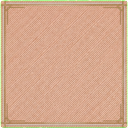
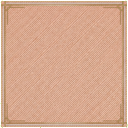
Apply four cross-screen review fixes
MOBILE_UI_DESIGN v0.80, mock v2.20. Cells gain small unstroked white
position letters A-I inset past the stitched border, matching the log
position column. The concentration sparkle badge is offset so its
visible left edge aligns with the power plate. A label_power_normal id
(matte plate for the uncharged state, user-generated later) is
registered in the docs and processing script, which now skips parts
whose source is missing. The three non-regen grid frames are
reprocessed with a border-connected green-haze wipe (greenness > 0.25
chained from the image edge); the regen frame is excluded because its
green border is legitimate. Zero green pixels remain in all three.

Changed region(s): [[0.0, 0.0, 1.0, 1.0]]

diff --git a/public/mock/index.html b/public/mock/index.html
@@ -115,7 +115,8 @@
   /* D5: 精神統一固定中は残りターン数と同数の「きらめき」バッジ(白発光の円形オーブ画像)を付ける。
      素材は発光の裾(グロー)を含むため画像端=見た目の境界ではない。複数並ぶ場合は左端を基準に、
      グロー同士の重なりを許容して中心間距離12px(15px+間隔1pxの25%詰め)で並べる */
-  .sparkles { position: absolute; top: -8px; left: 4px; display: flex; }
+  /* きらめきの可視左端をプレートの左端に揃える(素材の透過マージン1.5px分を補正。2026-07-12) */
+  .sparkles { position: absolute; top: -8px; left: -1.5px; display: flex; }
   .spark + .spark { margin-left: -3px; }
   /* D5: サイクル全体表示では布特性バッジと3個表示時に重なるため非表示(コンパクト表示のみで見せる) */
   .viewCycle .sparkles { display: none; }
@@ -193,6 +194,10 @@
   .cellNum.t2 { font-size: 28px; font-weight: bold; }
   .cellNum .t2s { -webkit-text-stroke-width: 2.2px; }
   .cellNum { filter: drop-shadow(0 2px 2px rgba(0,0,0,.5)); }
+  /* マスの位置アルファベット(A〜I 左上から行優先。ログの位置表記と対応): 縁なし白の小文字。
+     マス画像の茶ステッチ帯(端から約4px)と重ならないよう内側にオフセット */
+  .cellPos { position: absolute; top: 4px; left: 6px; font-size: 10px; font-weight: bold;
+    line-height: 1; color: #fff; pointer-events: none; }
   /* しつけがけ・発光マス: 下地画像そのものをマスごと差し替え(重ね枠ではない) */
   .cellShitsuke { background-image: url('./assets/cell_shitsuke.png'); }
   .cellGlow { background-image: url('./assets/cell_glow.png'); }
@@ -454,15 +459,15 @@
     <!-- 布グリッド(再生布) -->
     <section class="gridArea">
       <div class="grid">
-        <button class="cell c-normal" type="button"><span class="cellNum t2"><span class="t2s">46</span><span class="t2f">46</span></span></button>
-        <button class="cell c-yellow" type="button"><span class="cellNum t2"><span class="t2s">3</span><span class="t2f">3</span></span></button>
-        <button class="cell c-done" type="button"><span class="cellNum t2"><span class="t2s">0</span><span class="t2f">0</span></span></button>
-        <button class="cell c-normal cellGlow" type="button"><span class="cellNum t2"><span class="t2s">27</span><span class="t2f">27</span></span></button>
-        <button class="cell c-normal cellShitsuke cellGlow" type="button"><span class="cellNum t2"><span class="t2s">88</span><span class="t2f">88</span></span><span class="shitsukeMark t2"><span class="t2s">×２</span><span class="t2f">×２</span></span></button>
-        <button class="cell c-normal cellShitsuke" type="button"><span class="cellNum t2"><span class="t2s">12</span><span class="t2f">12</span></span><span class="shitsukeMark t2"><span class="t2s">×２</span><span class="t2f">×２</span></span></button>
-        <button class="cell c-done" type="button"><span class="cellNum t2"><span class="t2s">0</span><span class="t2f">0</span></span></button>
-        <button class="cell c-over" type="button"><span class="cellNum t2"><span class="t2s">-6</span><span class="t2f">-6</span></span></button>
-        <button class="cell c-normal" type="button"><span class="cellNum t2"><span class="t2s">62</span><span class="t2f">62</span></span></button>
+        <button class="cell c-normal" type="button"><span class="cellPos">A</span><span class="cellNum t2"><span class="t2s">46</span><span class="t2f">46</span></span></button>
+        <button class="cell c-yellow" type="button"><span class="cellPos">B</span><span class="cellNum t2"><span class="t2s">3</span><span class="t2f">3</span></span></button>
+        <button class="cell c-done" type="button"><span class="cellPos">C</span><span class="cellNum t2"><span class="t2s">0</span><span class="t2f">0</span></span></button>
+        <button class="cell c-normal cellGlow" type="button"><span class="cellPos">D</span><span class="cellNum t2"><span class="t2s">27</span><span class="t2f">27</span></span></button>
+        <button class="cell c-normal cellShitsuke cellGlow" type="button"><span class="cellPos">E</span><span class="cellNum t2"><span class="t2s">88</span><span class="t2f">88</span></span><span class="shitsukeMark t2"><span class="t2s">×２</span><span class="t2f">×２</span></span></button>
+        <button class="cell c-normal cellShitsuke" type="button"><span class="cellPos">F</span><span class="cellNum t2"><span class="t2s">12</span><span class="t2f">12</span></span><span class="shitsukeMark t2"><span class="t2s">×２</span><span class="t2f">×２</span></span></button>
+        <button class="cell c-done" type="button"><span class="cellPos">G</span><span class="cellNum t2"><span class="t2s">0</span><span class="t2f">0</span></span></button>
+        <button class="cell c-over" type="button"><span class="cellPos">H</span><span class="cellNum t2"><span class="t2s">-6</span><span class="t2f">-6</span></span></button>
+        <button class="cell c-normal" type="button"><span class="cellPos">I</span><span class="cellNum t2"><span class="t2s">62</span><span class="t2f">62</span></span></button>
       </div>
       <!-- 必殺チャージ演出(D20)。モックでは布グリッドタップで再生 -->
       <div class="fxLane" id="fxLane"><span class="fxMsg t2"><span class="t2s">ひっさつチャージ！！</span><span class="t2w">ひっさつチャージ！！</span><span class="t2f">ひっさつチャージ！！</span></span></div>
@@ -660,7 +665,7 @@
     </div>
   </div>
 
-  <div class="caption">UIモック v2.19(トーンB・画像AI実素材)— 1手戻す/進む=円形曲がり矢印(btn_step実素材)/ 布グリッドタップ=必殺チャージ演出(プレイ中のみ)/ ◀もどるタップ=確認ダイアログ(実装では2ターン目以降のみ)/ パワー行タップ=サイクル開閉(横スクロール可)/ ぬいパワープレートタップ=必殺使用時表示(会心×２)切替 / メッセージ欄タップ=文言切替 / きらめき2個=精神統一残り2の表示例 / 「27」=発光マス・「88」=しつけ×発光マスの表示例<br>
+  <div class="caption">UIモック v2.20(トーンB・画像AI実素材)— 1手戻す/進む=円形曲がり矢印(btn_step実素材)/ 布グリッドタップ=必殺チャージ演出(プレイ中のみ)/ ◀もどるタップ=確認ダイアログ(実装では2ターン目以降のみ)/ パワー行タップ=サイクル開閉(横スクロール可)/ ぬいパワープレートタップ=必殺使用時表示(会心×２)切替 / メッセージ欄タップ=文言切替 / きらめき2個=精神統一残り2の表示例 / 「27」=発光マス・「88」=しつけ×発光マスの表示例 / マス左上のA〜I=位置表記(ログの位置欄と対応)/ グリッド枠3種(通常・光・虹)の外周緑ヘイズを除去<br>
   右上ボタン=プレイ→数値表→ログの3状態ループ(§5.10)。数値表(§5.8)はステータス行を表示のまま1手戻す/進むを無効化。糸ほぐしは負数表記。マスタップで選択+倍率を1行送り(3倍の次は糸ほぐしへループ)、選択マス周囲に残数値の出目7種(糸ほぐし4種)をすべて涙型チップ(ベージュ50%透過×橙金枠・本体径28px・数値はマス表示と同じ白抜き・先端=マス中央向き)で扇状に一時表示(重複は畳まない)。倍率送りは候補表示中の同一マス再タップのみ(扇が消えた後のタップは選択し直し)/ 下フリック=倍率を1行戻す / 表の行タップ=倍率を直接選択 / 表下部でぬいパワー・しつけ・光を切替すると表と扇状表示に反映 / ログ画面(§5.13)は5列(ターン・特技・ぬいパワー・位置・ダメージ左寄せ)。位置=A〜I(左上から横方向)、？から変化したターンは「？→X」表記、−値(糸ほぐし回復)=緑・会心=文言なしの橙(複数ヒットは該当値のみ)。1手戻す/進むでハイライト行が連動し、ログ表示中は布グリッドタップとぬいパワー行のサイクル開閉を無効化</div>
 </div>
 

diff --git a/assets-src/process-assets.py b/assets-src/process-assets.py
@@ -56,7 +56,8 @@ PARTS = {
     "star_result_off": (80, 80),
     "plate_crit": (120, 48),
     "icon_power": (116, 64),
-    "label_power": (136, 48),
+    "label_power": (136, 48),   # 必殺チャージ時用(光沢あり)として継続
+    "label_power_normal": (136, 48),  # 非チャージ時用(光沢控えめ。ユーザー生成待ち 2026-07-12)
 }
 # fx_hissatsu は黒背景コマ連番のため対象外(演出実装時に別処理)
 
@@ -96,6 +97,10 @@ ROUND_PARTS = {
     "btn_step_undo_normal", "btn_step_undo_pressed", "btn_step_undo_disabled",
     "btn_step_redo_normal", "btn_step_redo_pressed", "btn_step_redo_disabled",
 }
+# 布グリッド枠: 外周(画像端)に純緑背景のヘイズ(半透明の緑被り)が残るため、出力解像度で
+# 「画像端に連結した緑味画素」(greenness>0.25)を連鎖除去する。panel_grid_regen は枠自体が
+# 正当な緑で、外周AAも緑が正しい(緑枠に緑フリンジは視認されない)ため対象外。
+GREEN_EDGE_PARTS = {"panel_grid_normal", "panel_grid_light", "panel_grid_rainbow"}
 # 左右反転で生成するパーツ: 値のIDの原本を水平反転して処理する。
 # (redo を生成AIで左右反転させると意図しない差異が入るため、プログラムで鏡像を作る)
 MIRROR_SRC = {
@@ -271,6 +276,27 @@ def process(name, tw, th):
             halo |= grown
         out_arr[halo, 3] = 0
         print(f"  output halo removed: {int(halo.sum())} px")
+    if name in GREEN_EDGE_PARTS:
+        # 外周の緑ヘイズ除去: 画像端に連結した緑味画素(greenness>0.25)を連鎖除去する。
+        # 内側の枠色(茶/淡彩/虹)は greenness が低く連鎖が届かない
+        o = out_arr.astype(np.float32)
+        oa = o[..., 3] / 255.0
+        gx = o[..., 1] - np.maximum(o[..., 0], o[..., 2])
+        gness = gx / np.maximum(o[..., :3].max(axis=2), 1)
+        greenish = (gness > 0.25) & (oa > 0.0)
+
+        def neigh_pad_g(m, fill):
+            p = np.pad(m, 1, constant_values=fill)
+            return p[:-2, 1:-1] | p[2:, 1:-1] | p[1:-1, :-2] | p[1:-1, 2:]
+
+        edge_green = greenish & neigh_pad_g(np.zeros_like(greenish), True)  # 画像端に接する緑
+        for _ in range(32):
+            grown = greenish & neigh_pad_g(edge_green, False)
+            if not (grown & ~edge_green).any():
+                break
+            edge_green |= grown
+        out_arr[edge_green, 3] = 0
+        print(f"  green edge removed: {int(edge_green.sum())} px")
     # アルファブリード: 透明画素(α=0)のRGBを最近傍の不透明色で埋める。
     # 事前乗算リサイズの逆算(premul/α)は α≈0 でノイズが増幅されて透明画素に白系の
     # ゴミRGBが残り、ブラウザが border-image を端末解像度へ再補間する際に
@@ -304,13 +330,26 @@ def process(name, tw, th):
     warn = " <-- AR diff!" if abs(ar_src / ar_tgt - 1) > 0.12 else ""
     print(f"{name}: crop {x1-x0}x{y1-y0} -> {tw}x{th} (AR {ar_src:.2f} -> {ar_tgt:.2f}){warn}")
 
+def src_exists(name):
+    return (SRC / f"{MIRROR_SRC.get(name, name)}.png").exists()
+
 if len(sys.argv) > 1:
     targets = sys.argv[1:]
+    done = 0
     for name in targets:
+        if not src_exists(name):
+            print(f"{name}: SKIP (source not found)")
+            continue
         tw, th = PARTS[name]
         process(name, tw, th)
-    print("done:", len(targets), "files")
+        done += 1
+    print("done:", done, "files")
 else:
+    done = 0
     for name, (tw, th) in PARTS.items():
+        if not src_exists(name):
+            print(f"{name}: SKIP (source not found)")
+            continue
         process(name, tw, th)
-    print("done:", len(PARTS), "files")
+        done += 1
+    print("done:", done, "files")